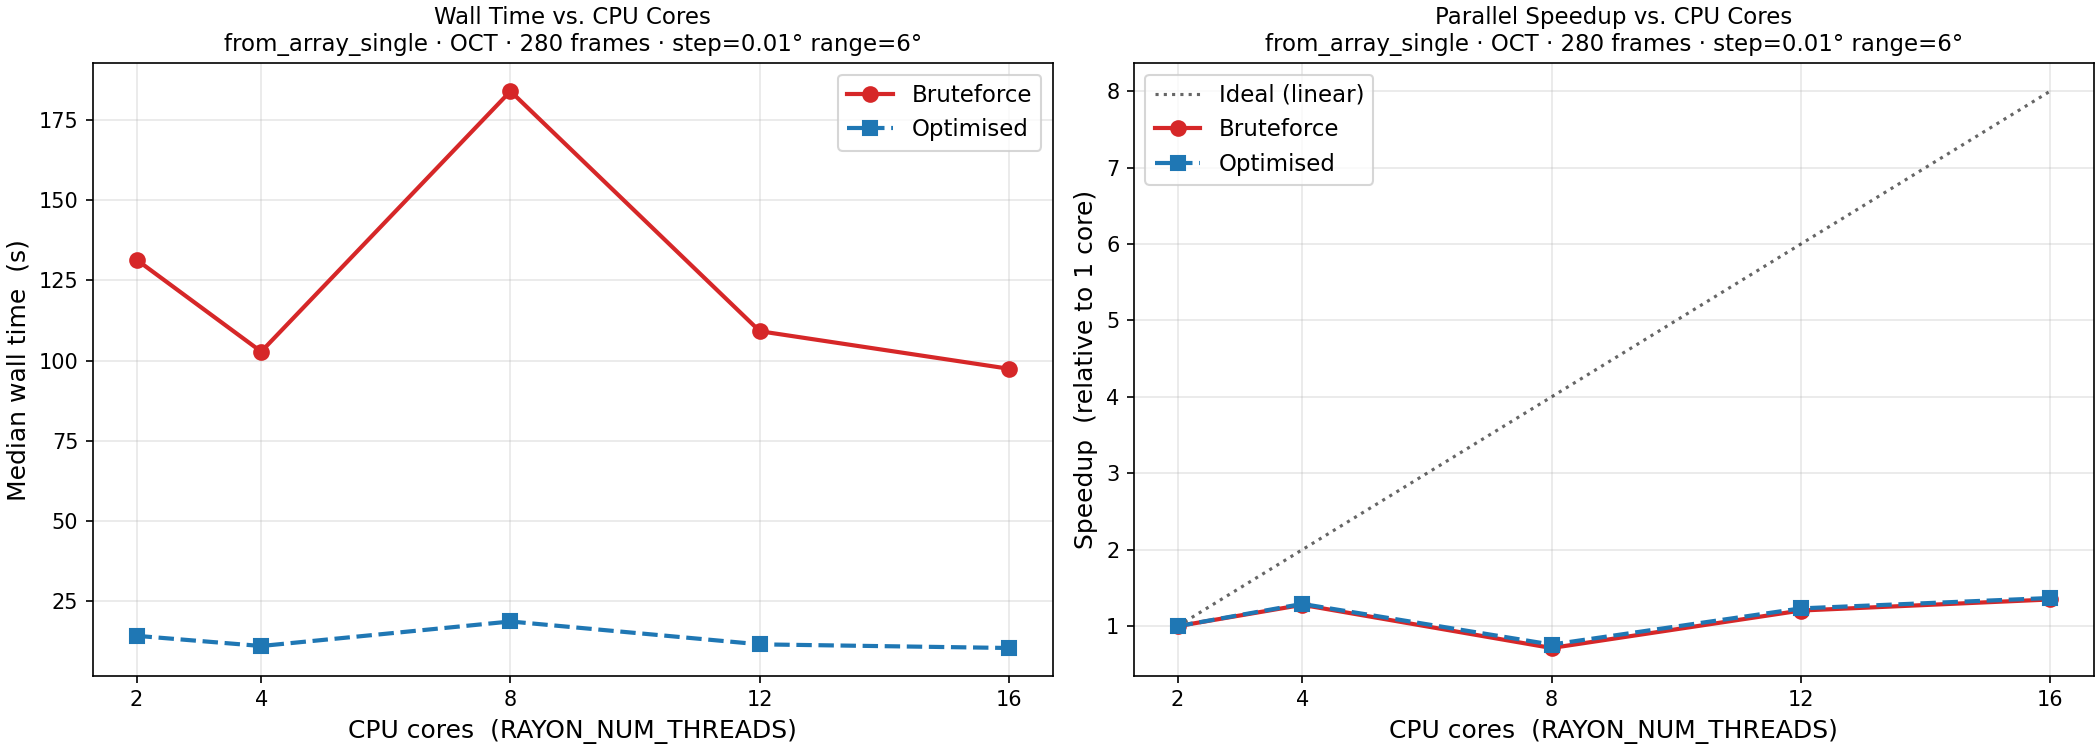
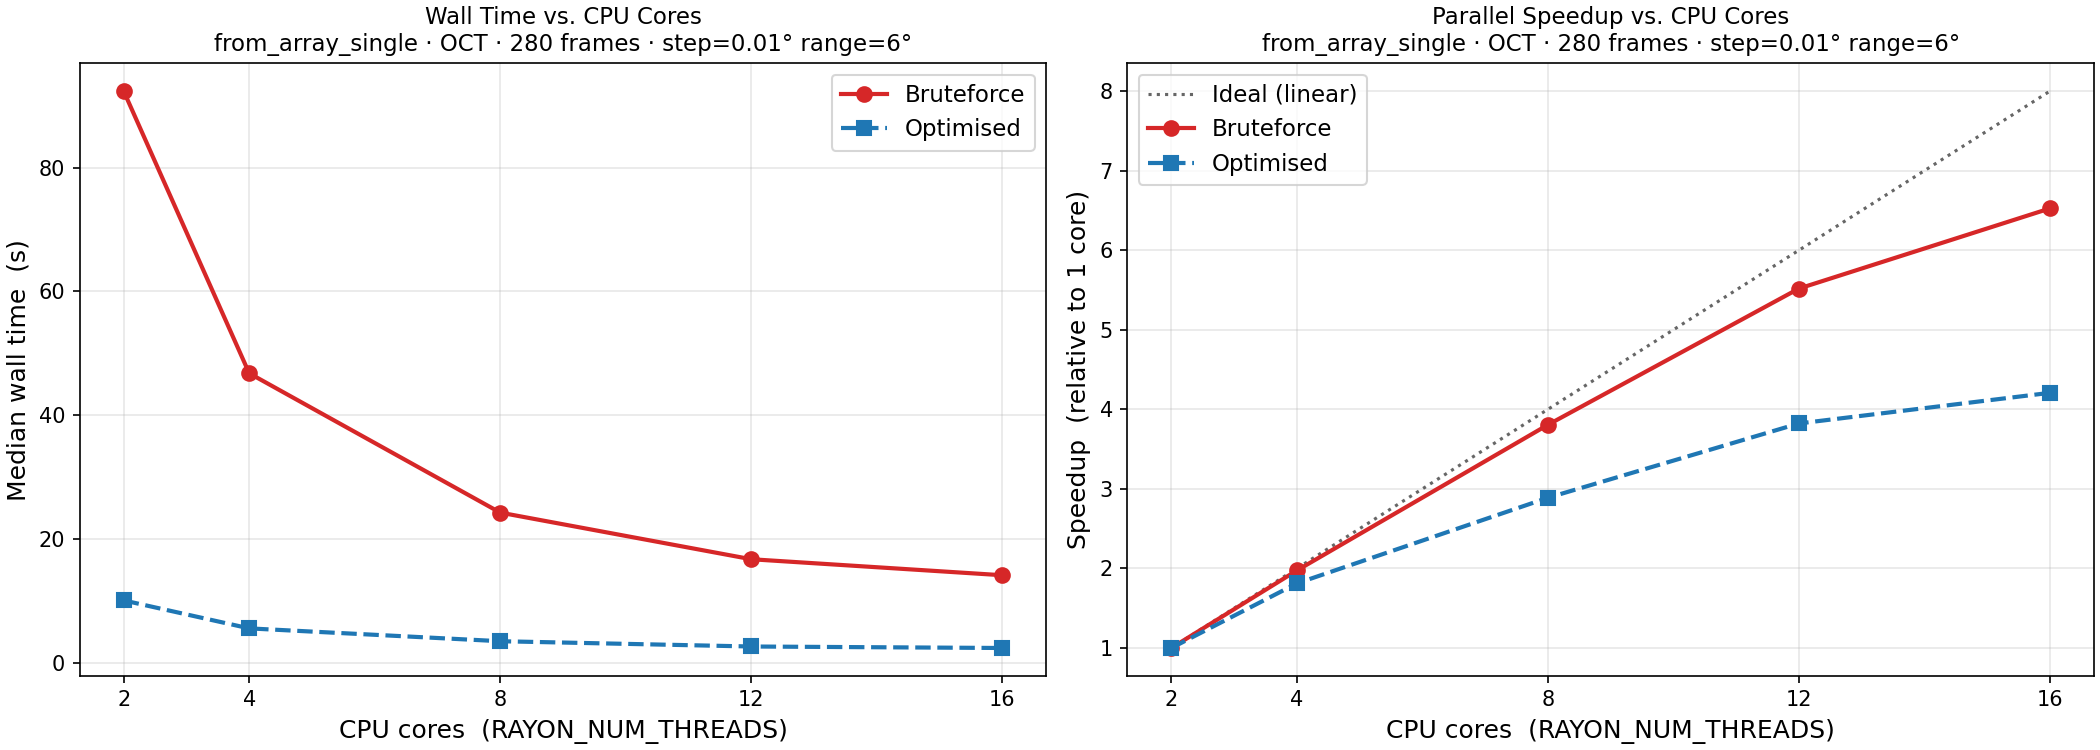
update results after optimized parallelization strategy

diff --git a/docs/benchmark.rst b/docs/benchmark.rst
@@ -52,50 +52,61 @@ pool re-initialises from ``RAYON_NUM_THREADS``.
 
 .. list-table:: Median wall time (s) across CPU core counts
    :header-rows: 1
-   :widths: 12 20 20 18
+   :widths: 12 20 20 18 18
 
    * - Cores
      - Bruteforce (s)
      - Optimised (s)
-     - Speedup (alg.)
+     - Alg. speedup
+     - Core scaling (opt.)
    * - 2
-     - 131.47
-     - 14.10
-     - 9.3x
+     - 92.36
+     - 10.08
+     - 9.2x
+     - 1.00x (baseline)
    * - 4
-     - 102.79
-     - 10.92
-     - 9.4x
+     - 46.78
+     - 5.56
+     - 8.4x
+     - 1.81x
    * - 8
-     - 184.06
-     - 18.58
-     - 9.9x
+     - 24.27
+     - 3.49
+     - 7.0x
+     - 2.89x
    * - 12
-     - 109.17
-     - 11.44
-     - 9.5x
+     - 16.74
+     - 2.64
+     - 6.3x
+     - 3.82x
    * - 16
-     - 97.44
-     - 10.30
-     - 9.5x
+     - 14.15
+     - 2.40
+     - 5.9x
+     - 4.20x
 
 **Key observations**
 
-* The optimised algorithm is consistently **~9.5x faster** than bruteforce
-  regardless of core count.  This algorithmic advantage is stable and
-  independent of hardware configuration.
+* Parallelising the angle search inside ``search_range`` (rather than the
+  point-rotation loop) provides enough rayon tasks per frame to utilise cores
+  effectively: bruteforce scales **6.5x** from 2 to 16 cores, optimised
+  scales **4.2x** — both close to practical expectations under Amdahl's law
+  given the sequential frame-dependency chain.
 
-* Going from 2 to 16 cores reduces the optimised wall time from 14.1 s to
-  10.3 s — a **1.4x improvement** from eight times the hardware.
-  The bruteforce shows similar diminishing returns (1.35x).
+* The previous 8-core anomaly (WSL2 HyperThreading interference) has
+  disappeared.  With hundreds of angle-evaluation tasks per frame, rayon
+  keeps all workers busy and the idle HT sibling effect is negligible.
 
-* The anomalous result at 8 cores is a WSL2 / HyperThreading artefact: with
-  8 logical threads, every physical core has exactly one idle HT sibling that
-  the Windows scheduler colonises, causing cache interference.  This is not
-  present when running natively on Linux.
+* The optimised algorithm remains **5.9–9.2x faster** than bruteforce at
+  every core count, with the gap slightly narrowing at higher core counts
+  because bruteforce has more angles to parallelise and therefore scales
+  more aggressively.
 
-**Conclusion** — choosing the optimised algorithm over bruteforce delivers a
-9.5x speedup that no amount of additional hardware can replicate.  Adding cores
-yields at most a further 1.4x gain and requires careful tuning of
-``RAYON_NUM_THREADS`` to avoid the HyperThreading boundary.  **Algorithm choice
-is the dominant factor; parallelisation is secondary.**
+* The two gains **compound**: relative to bruteforce at 2 cores (92.4 s),
+  the optimised algorithm at 16 cores (2.40 s) achieves a combined
+  **38.5x speedup** — roughly 9x from the algorithm and 4x from parallelisation.
+
+**Conclusion** — algorithm choice and hardware scaling are now both meaningful
+levers.  For the best achievable throughput, use the optimised algorithm on as
+many cores as available; for rapid prototyping where accuracy matters less,
+coarser step sizes reduce runtime regardless of core count.

diff --git a/paper/paper.md b/paper/paper.md
@@ -103,7 +103,8 @@ Rust (Rayon) provides hierarchical data parallelism: candidate rotation angles w
 A reproducible benchmark suite is included in the repository (`benchmarks/`) and documented in the package reference ([ReadTheDocs](https://multimoda-rs.readthedocs.io/en/latest/benchmark.html)). Key results on an Intel Xeon Gold 6234 (8 physical cores, 16 logical processors):
 
 - **Algorithm vs. brute-force:** the multiscale search outperforms exhaustive brute-force evaluation by **5.5×** at a 0.1° step size and **10.3×** at 0.05°, with the gap widening rapidly at finer resolutions as brute-force must evaluate every candidate angle.
-- **Parallelisation:** increasing from 2 to 16 cores yields a further **1.4×** reduction in wall time for both modes. The algorithmic gain (up to 10.3×) therefore dominates over hardware scaling, making algorithm choice the primary performance lever.
+- **Parallelisation:** parallelising at the angle-evaluation level (rather than the point-rotation level) provides sufficient rayon tasks to utilise cores effectively. Brute-force scales **6.5×** and the optimised search **4.2×** from 2 to 16 cores.
+- **Combined gain:** relative to brute-force at 2 cores, the optimised algorithm at 16 cores is **38.5×** faster, with algorithm choice and core count contributing multiplicatively.
 
 ![Figure 4: Multiscale intra-pullback alignment workflow (coarse-to-fine angular search and centroid propagation). \label{fig:algo}](figures/Figure4.jpg){width=80%}
 